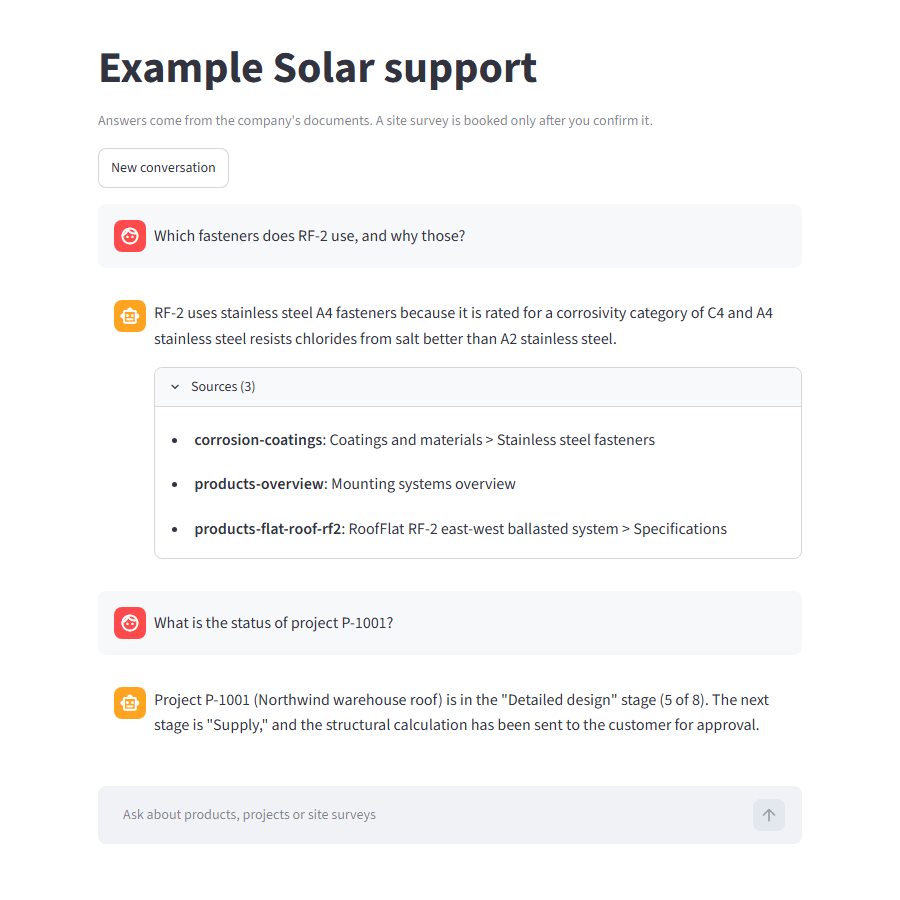
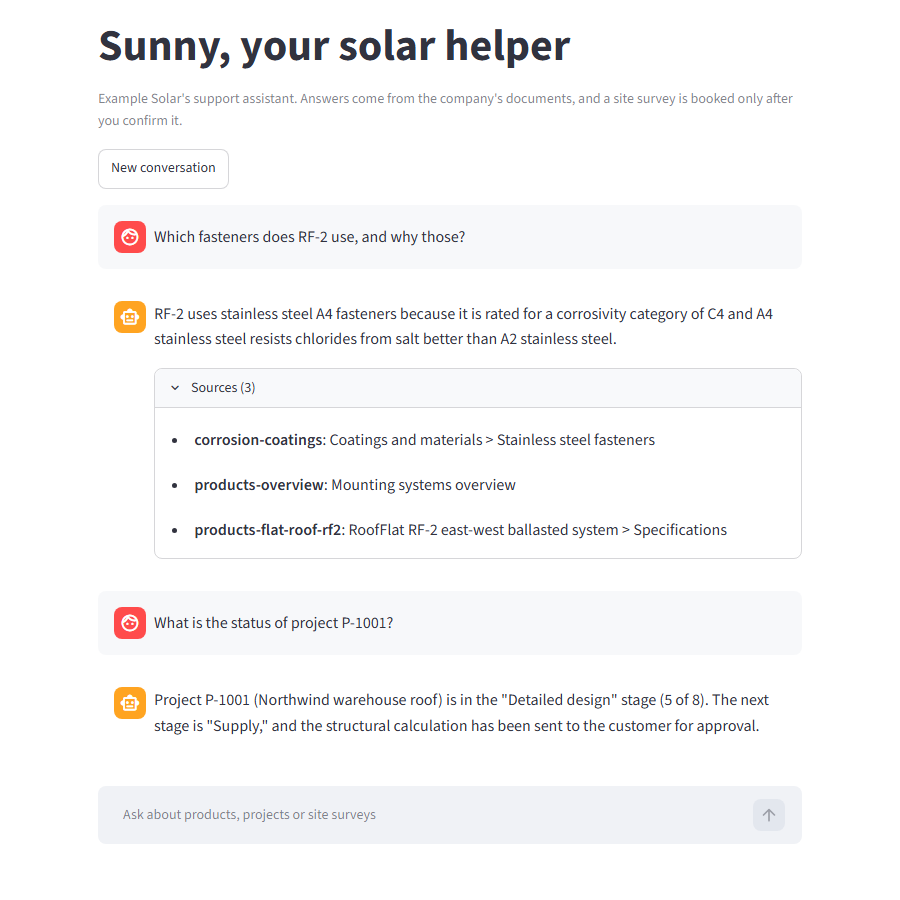
ui: the chat window is "Sunny, your solar helper", and the customer's message shows at once with Thinking... under it, instead of only when the answer arrives; a browser test with a slow stand-in answer (10 e2e tests) and a break it catches (5 of 5); the README GIF and screenshot re-recorded

diff --git a/ui/app.py b/ui/app.py
@@ -54,9 +54,9 @@ def show_answer(index, turn):
 
 
 def main():
-    st.set_page_config(page_title="Example Solar support", page_icon="☀")
-    st.title("Example Solar support")
-    st.caption("Answers come from the company's documents. A site survey is booked only after you confirm it.")
+    st.set_page_config(page_title="Sunny · solar helper", page_icon="☀")
+    st.title("Sunny, your solar helper")
+    st.caption("Example Solar's support assistant. Answers come from the company's documents, and a site survey is booked only after you confirm it.")
     state = st.session_state
     state.setdefault("session_id", None)
     state.setdefault("turns", [])
@@ -76,13 +76,17 @@ def main():
 
     message = st.chat_input("Ask about products, projects or site surveys", max_chars=MAX_CHARS)
     if message and message.strip():
-        with st.spinner("Thinking..."):
-            reply, error = ask(message.strip(), state.session_id)
+        text = message.strip()
+        # The customer's message shows at once; the answer takes 10 to 30 s on a 4 GB GPU.
+        with st.chat_message("user"):
+            st.markdown(text)
+        with st.chat_message("assistant"), st.spinner("Thinking..."):
+            reply, error = ask(text, state.session_id)
         if reply:
             state.session_id = reply["session_id"]
-            state.turns.append({"message": message.strip(), **reply})
+            state.turns.append({"message": text, **reply})
         else:
-            state.turns.append({"message": message.strip(), "error": error})
+            state.turns.append({"message": text, "error": error})
         st.rerun()
 
 

diff --git a/tests/e2e/test_chat_window.py b/tests/e2e/test_chat_window.py
@@ -21,7 +21,7 @@ def send(page: Page, text: str):
 
 def open_chat(page: Page, url: str):
     page.goto(url)
-    expect(page.get_by_role("heading", name="Example Solar support")).to_be_visible(timeout=30_000)
+    expect(page.get_by_role("heading", name="Sunny, your solar helper")).to_be_visible(timeout=30_000)
 
 
 def test_happy_path_shows_the_question_and_the_answer(page: Page, chat_url):
@@ -29,6 +29,15 @@ def test_happy_path_shows_the_question_and_the_answer(page: Page, chat_url):
     send(page, "How long is the warranty?")
     expect(page.locator(".st-key-reply-0")).to_contain_text("15-year warranty", timeout=30_000)
     expect(page.get_by_test_id("stChatMessage").first).to_contain_text("How long is the warranty?")
+
+
+def test_the_question_shows_at_once_while_the_answer_is_on_its_way(page: Page, chat_url):
+    open_chat(page, chat_url)
+    send(page, "Please answer slowly")
+    expect(page.get_by_test_id("stChatMessage").first).to_contain_text("Please answer slowly", timeout=2_000)
+    expect(page.locator(".st-key-reply-0")).to_have_count(0)
+    expect(page.locator(".st-key-reply-0")).to_contain_text("Here is the slow answer.", timeout=30_000)
+    expect(page.get_by_test_id("stChatMessage").first).to_contain_text("Please answer slowly")
 
 
 def test_sources_are_displayed_under_the_answer(page: Page, chat_url):

diff --git a/tests/e2e/stub_api.py b/tests/e2e/stub_api.py
@@ -6,12 +6,15 @@ It answers from a script, keyed on words in the message, and builds every reply 
 app.api.ChatRequest and ChatResponse models: a change to the /chat contract breaks these tests too.
 """
 
+import time
+
 from fastapi import FastAPI, HTTPException
 
 from app.api import ChatRequest, ChatResponse
 
 app = FastAPI(title="stub /chat")
 SESSION = "stub0session0id"
+SLOW_S = 4  # long enough for a test to look at the page while the answer is on its way
 LONG = " ".join(f"Sentence {n} of a long answer about mounting systems." for n in range(1, 61))
 WARRANTY_SOURCE = {"doc_id": "warranty", "heading_path": "Warranty > Warranty periods", "chunk_id": "warranty:0:aa"}
 
@@ -27,6 +30,9 @@ def chat(request: ChatRequest):
     message = request.message.lower()
     if "fail" in message:
         raise HTTPException(503, "service unavailable: Ollama is down")
+    if "slowly" in message:  # the real model takes 10 to 30 s
+        time.sleep(SLOW_S)
+        return reply("Here is the slow answer.")
     if message == "yes":
         booking = {"survey_id": 1, "project_id": "P-1008", "survey_date": "2026-11-12", "status": "confirmed"}
         return reply("Your site survey for project P-1008 is booked for 2026-11-12.", booking)

diff --git a/docs/make_demo_gif.py b/docs/make_demo_gif.py
@@ -62,7 +62,7 @@ def record():
         browser = p.chromium.launch()
         page = browser.new_page(viewport=VIEWPORT)
         page.goto(URL)
-        expect(page.get_by_role("heading", name="Example Solar support")).to_be_visible(timeout=60_000)
+        expect(page.get_by_role("heading", name="Sunny, your solar helper")).to_be_visible(timeout=60_000)
         recorder = Recorder(page)
         recorder.shot(1500)
 

diff --git a/tests/e2e/breaks.py b/tests/e2e/breaks.py
@@ -20,6 +20,7 @@ BREAKS = {
     ),
     "a proposed booking shown as booked": ('            if booking["status"] == "confirmed":\n', "            if True:\n"),
     "empty input sent": ("    if message and message.strip():\n", "    if message is not None:\n"),
+    "the question shown only with the answer": ('        with st.chat_message("user"):\n            st.markdown(text)\n', ""),
 }
 
 

diff --git a/docs/demo_video_script.md b/docs/demo_video_script.md
@@ -64,7 +64,7 @@ It runs 21 questions and takes about 5 minutes. Film the start, pause the record
 python -m pytest tests/e2e -m e2e --headed --slowmo 400
 ```
 
-**Say:** "And the chat window has its own tests. Playwright opens a real browser and uses the window like a person would: nine tests, against a stand-in API, on every push."
+**Say:** "And the chat window has its own tests. Playwright opens a real browser and uses the window like a person would: ten tests, against a stand-in API, on every push."
 
 ### 6. Close (20 s)
 
